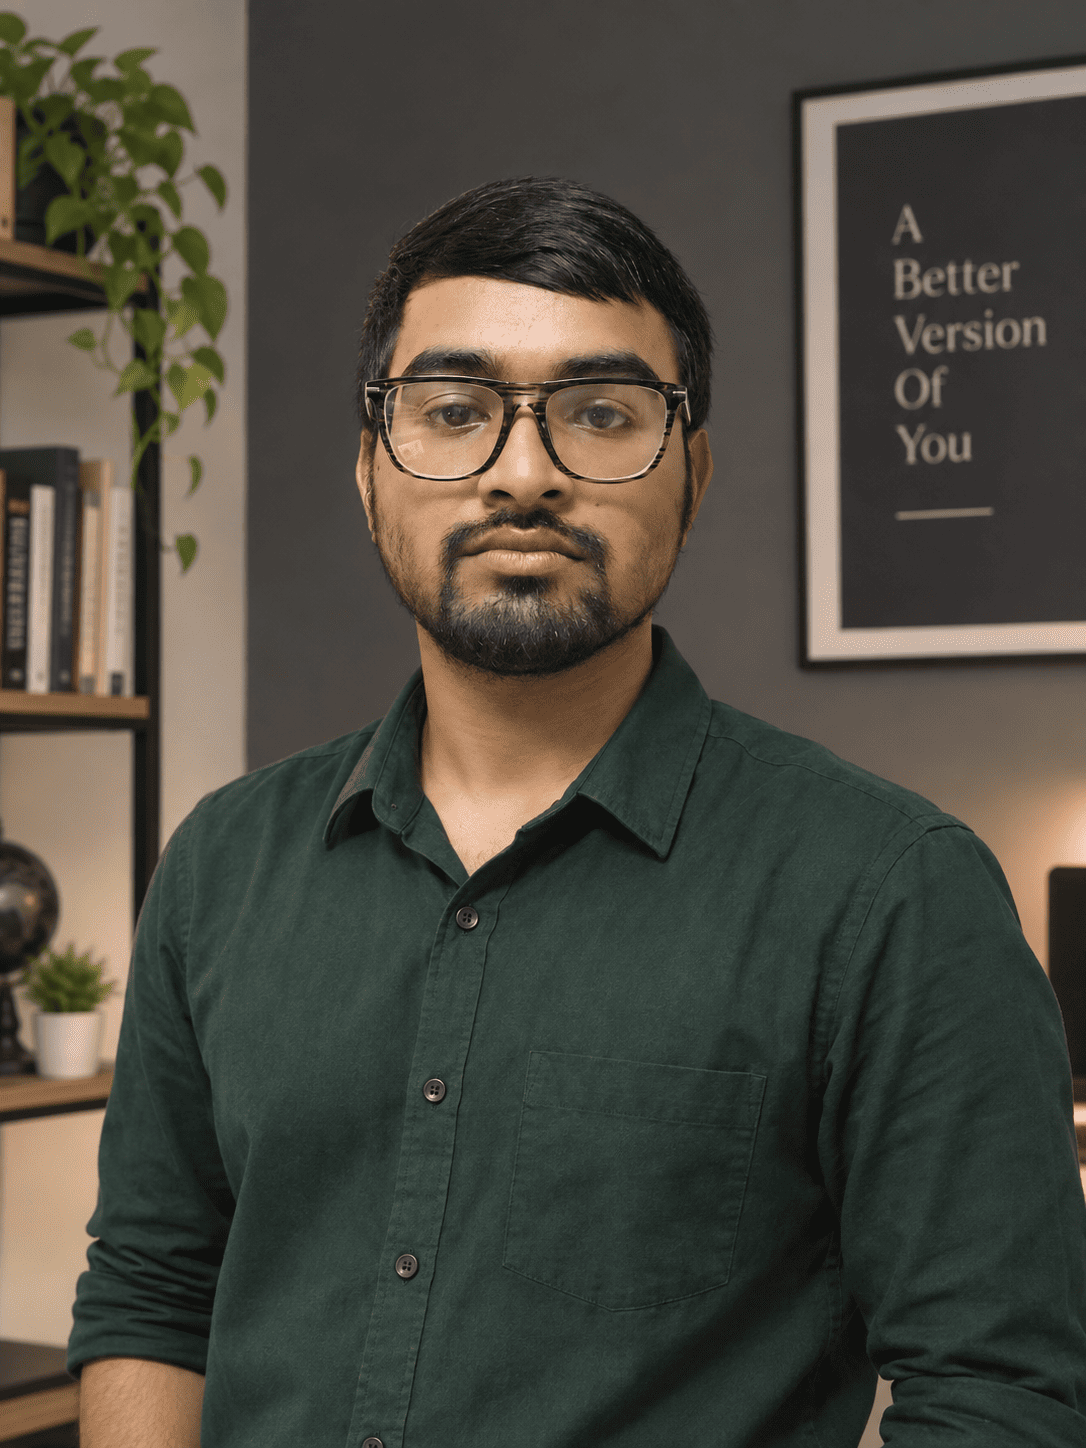
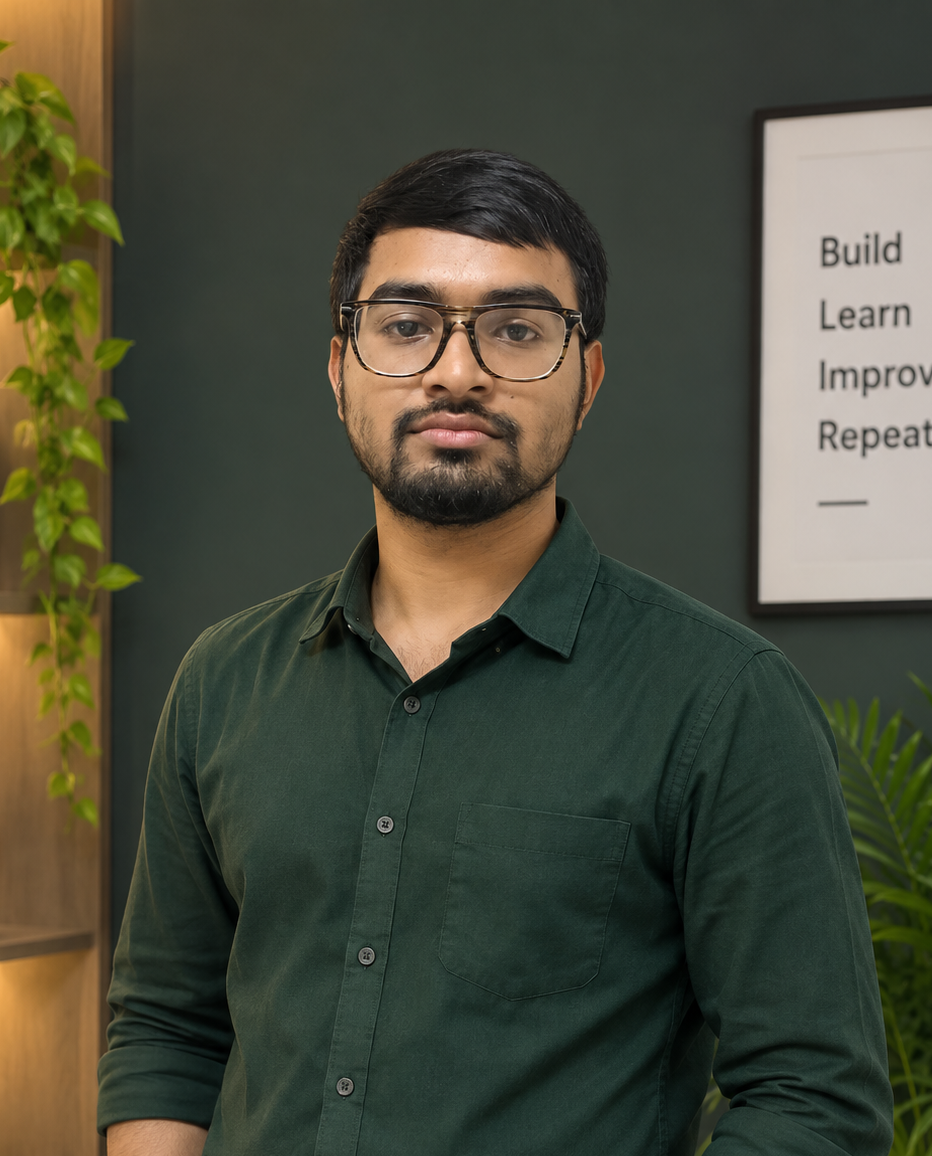
footer done , Ready for first initial launch

diff --git a/index.html b/index.html
@@ -21,17 +21,17 @@
                 </div>
 
                 <div class="nav-items">
-                    <div> <a href="#projects">Projects</a> </div>
-                    <div> <a href="#Skills">Skills</a> </div>
-                    <div> <a href="#experiences">Experiences</a> </div>
-                    <div> <a href="#contact">Contact <Menu></Menu></a> </div>
+                    <div> <a href="#section-project">Projects</a> </div>
+                    <div> <a href="#section-tech">Skills</a> </div>
+                    <div> <a href="#section-exp">Experiences</a> </div>
+                    <div> <a href="#section-contact">Contact </a> </div>
                 </div>
 
             </div>
 
         </div>
 
-        <div class="hero-section">
+        <div class="hero-section" >
             <div class="faded-text">Ayan Kumar Patra</div>
           <div class="hero-section-left">
             <div class="hero-section-heading">Hello World : </div>
@@ -66,7 +66,7 @@
     </div>
 
     <!--                        project section                         -->
-    <div class="projet-section">
+    <div class="projet-section" id="section-project">
         <h2 class="page-header">Projects</h2>
 
         <div class="project-container">
@@ -259,7 +259,7 @@
 
     <!--                        tech stack section                      -->
 
-    <div class="tech-stack">
+    <div class="tech-stack" id="section-tech">
         <div class="tech-stack-top-text">Tech and Tools</div>
 
         <div class="tech-stack-content">
@@ -298,7 +298,7 @@
     
     <!--                         skills                             -->
     
-    <div class="faded-text-skills">Skills and achivements</div>
+    <div class="faded-text-skills" id="section-exp" >Skills and achivements</div>
     
     <div class="skills">
         
@@ -345,7 +345,7 @@
 <!--                         contact us                             -->
 
 
-<div class="faded-text-contact-me">Let's Get in Touch</div>
+<div class="faded-text-contact-me" id="section-contact">Let's Get in Touch</div>
 <div class="contact-me-container">
     <h2 class="contact-me-subheading"> Questions, thoughts, or just want to say hello :) </h2>
 
@@ -389,7 +389,7 @@
 
 
 <footer>
-    <div class="container">
+    <div class="footer">
         <div class="footer-wrapper">
             <div class="footer-faded-text">Ayan Kumar Patra</div>
 
@@ -397,6 +397,10 @@
 
                 <a class="foot-icon" href="https://www.instagram.com/ayankrpatra/" target="_blank">
                     <i class="fa-brands fa-instagram" ></i>
+                </a>
+
+                <a class="foot-icon" href="https://x.com/Ayankrpatra" target="_blank">
+                    <i class="fa-brands fa-twitter"></i>
                 </a>
 
 
@@ -407,12 +411,25 @@
                 <a class="foot-icon" href="https://github.com/ayankumarpatra" target="_blank">
                     <i class="fa-brands fa-github"></i>
                 </a>
-
+                
                 <a class="foot-icon" href="https://leetcode.com/u/ayankrpatra/" target="_blank">
                     <img class="foot-leetcode" src="assets/vectors/leetcode-brands-solid.png">
                 </a>
 
+                <a class="foot-icon" href="mailto:ayankumarpatra50@gmail.com">
+                    <i class="fa-solid fa-at"></i>
+                </a>
+
             </div>
+
+
+
+                <div class="nav-items nav-items-footer">
+                    <div> <a href="#section-project">Projects</a> </div>
+                    <div> <a href="#section-tech">Skills</a> </div>
+                    <div> <a href="#section-exp">Experiences</a> </div>
+                    <div> <a href="#section-contact">Contact <Menu></Menu></a> </div>
+                </div>
         </div>
     </div>
 </footer>

diff --git a/styles.css b/styles.css
@@ -776,16 +776,59 @@ position: absolute;
     flex-direction: row;
     align-items: center;
     gap: 20px;
+
+    font-size: 24px;
 }
 
 .foot-icon{
     display: flex;
     align-items: center;
     justify-content: center;
+
+    transition: transform 0.5s ease;
 }
+
 
 .foot-leetcode{
     width: 25px;
     height: 25px;
     object-fit: contain;
+}
+
+.foot-icon:hover{
+    transform: scale(1.5);
+    color: #005ac0;
+}
+
+.footer{
+    position: relative;
+    margin-top: -1px;
+    background-color: #a1cdff;
+
+    padding: 5rem;
+}
+
+.footer-wrapper{
+    display: flex;
+    gap: 1rem;
+    padding: 1.2rem;
+    justify-content: space-between;
+    align-items: center;
+}
+
+.footer-faded-text{
+    position: absolute;
+    font-size: 3.9rem;
+    color: rgba(0, 72, 92, 0.459);
+    margin: 0 auto;
+    font-weight: bold;
+    transition: all 3s;
+    bottom: -1px;
+    margin-left: -50px;
+
+    user-select: none;
+}
+
+html {
+  scroll-behavior: smooth;
 }
